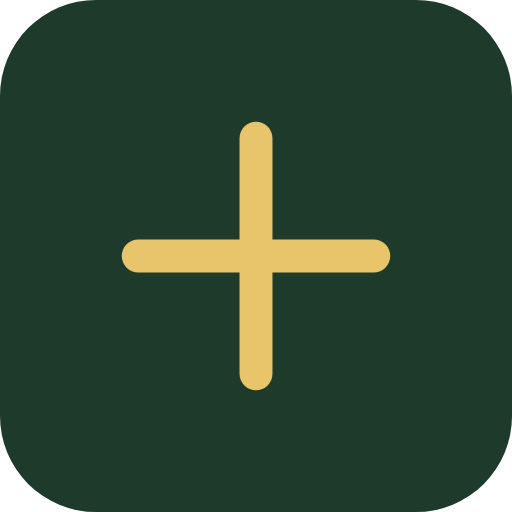
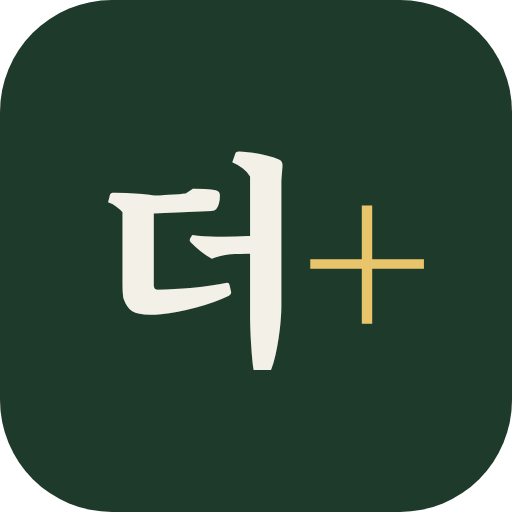
홈페이지 2차 개편 1단계: 글자 로고 A·아이콘·공유 그림·사진
- 로고 「하나 더+ │ 세무회계」(Logo.astro, 명조 900 로고 글자만 잘라 1KB)
- 앱 아이콘·탭 그림 "더+", 카카오톡 공유 그림 새로(scripts/make-brand-images.mjs)
- 분위기 사진 5장(Pexels)·운영자 서점 사진 5장(우리 책만 선명) — docs/photo-sources.md

Claude-Session: https://claude.ai/code/session_01AABDgFkEFoZPQB6r4Tz1H1

diff --git a/src/styles/global.css b/src/styles/global.css
@@ -32,8 +32,10 @@
 /* 제목 글꼴: 빌드 뒤 scripts/subset-fonts.mjs가 쓰인 글자만 잘라 만든다 */
 @font-face { font-family: "Hanadeo Serif"; font-weight: 700; font-display: swap; src: url("/fonts/serif-la-700.woff2") format("woff2"); unicode-range: U+0000-024F, U+2000-206F, U+20AC, U+2190-21FF; }
 @font-face { font-family: "Hanadeo Serif"; font-weight: 700; font-display: swap; src: url("/fonts/serif-ko-700.woff2") format("woff2"); unicode-range: U+1100-11FF, U+3000-303F, U+3130-318F, U+AC00-D7AF, U+FF00-FFEF; }
-/* 남은 날 큰 숫자: 명조 숫자 열 개만(약 3KB) */
-@font-face { font-family: "Hanadeo Num"; font-weight: 400; font-display: swap; src: url("/fonts/serif-num-400.woff2") format("woff2"); unicode-range: U+0030-0039; }
+/* 남은 날 큰 숫자·로고의 가는 +: 명조 400 숫자 열 개와 + (약 3KB) */
+@font-face { font-family: "Hanadeo Num"; font-weight: 400; font-display: swap; src: url("/fonts/serif-num-400.woff2") format("woff2"); unicode-range: U+002B, U+0030-0039; }
+/* 글자 로고 "하나 더": 명조 900에서 로고 글자만 */
+@font-face { font-family: "Hanadeo Logo"; font-weight: 900; font-display: swap; src: url("/fonts/serif-logo-900.woff2") format("woff2"); unicode-range: U+AC00-D7AF; }
 
 *, *::before, *::after { box-sizing: border-box; }
 html { -webkit-text-size-adjust: 100%; }

diff --git a/CLAUDE.md b/CLAUDE.md
@@ -29,6 +29,8 @@
 - 종이색은 풀빛 도는 회색(#F2F3EE), + 기호는 로고·첫 화면 제목 끝 하나·마감 표시·서비스 목록 표시·옅은 모눈(`.plusgrid`)에만 — 장식으로 늘리지 말 것(2026-10-24 시안 1판에서 십자수처럼 보인다는 지적).
 - 책 목록 `home.json` books는 최신순 — 홈은 앞에서 `homeBooks`(4)권만, 칼럼·책 페이지는 전부. 표지 사진은 `cover`(public/img/books/, PowerPoint에서 PNG로 내보낸 것 → webp 400px), 없으면 표지색(`color`)으로 그린 표지. 표지 PPTX를 이 환경에서 그림으로 바꾸면 글꼴이 없어 깨지니 쓰지 말 것.
 - 칼럼·책 카드 표지는 `src/components/Thumb.astro` — 블로그 글은 제목 낱말로 주제(`src/lib/thumbTopic.js`)를 골라 색·그림을 바꾸고, RSS에 네이버 사진(pstatic.net)이 있으면 사진을 쓴다(못 불러오면 그림).
-- 아이콘 PNG·`manifest.webmanifest`는 favicon.svg와 같은 그림(숲색 바탕 + 금색 십자) — `tests/icons.test.mjs`가 픽셀을 본다(예전 PNG에 깨진 그림 표시가 찍혀 바로가기 아이콘이 하얬다).
+- 로고는 글자 로고 A「하나 더+ │ 세무회계」(2026-10-24 운영자 선택) — `src/components/Logo.astro` 한 곳(머리글·메뉴·바닥글은 `dark`). "하나 더"는 명조 900을 그 세 글자만 잘라(`serif-logo-900`), +는 가는 금색(`Hanadeo Num` 400).
+  아이콘 PNG 5개·`og.png`는 같은 로고의 "더+"(숲색 바탕·크림색 더·금색 +) — `scripts/make-brand-images.mjs`로만 다시 만든다(손으로 고치지 말 것). `tests/icons.test.mjs`가 픽셀을 본다(예전 PNG에 깨진 그림 표시가 찍혀 바로가기 아이콘이 하얬다).
+- 사진은 `public/img/photos/`, 출처는 `docs/photo-sources.md` — 분위기 사진(mood-*)은 사람·장소·다른 저자 책 제목이 없는 것만 장식으로, 운영자 사진(own-*)은 우리 책만 선명하게 두고 다른 책은 흐리게.
 - 칼럼·책의 블로그 최신 글은 빌드 때 RSS를 읽고(`src/lib/blogFeed.js`), 못 읽으면 그 칸만 뺀다 — 빌드를 실패시키지 말 것.
 - 영상(`src/data/videos.json`)은 누를 때만 받는다(preload=none, 자동 재생 금지). 영상 속 "22권"은 통합검색 22가 검색하는 책 — 옆에 "저서 33권 중 22권" 설명을 빼지 말 것.

diff --git a/docs/photo-sources.md b/docs/photo-sources.md
@@ -1,0 +1,22 @@
+# 사진 출처 (public/img/photos/)
+
+장식용 분위기 사진(mood-*)은 사람·장소가 없고 다른 저자의 책 제목이 읽히지 않는 것만 — Pexels License(무료·출처 표시 의무 없음, https://www.pexels.com/license/). 2026-10-24 내려받음.
+
+| 파일 | 내용 | 원본 |
+|---|---|---|
+| mood-pen-{1200,800}.webp | 흰 종이 위 만년필 | https://www.pexels.com/photo/7431849/ |
+| mood-pages-{1200,800}.webp | 쌓인 종이 가장자리 | https://www.pexels.com/photo/7233375/ |
+| mood-book-{1200,800}.webp | 펼친 책 | https://www.pexels.com/photo/415071/ |
+| mood-paper-{1200,800}.webp | 종이 질감 | https://www.pexels.com/photo/20899958/ |
+| mood-leaves-{1200,800}.webp | 책장 넘김 가까이 | https://www.pexels.com/photo/29391654/ |
+
+운영자 사진(own-*) — 운영자가 2026-10-24 보낸 서점·책장 사진. 대표 저서 「병·의원 세무 관리」(성광호·조성식, 삼일인포마인)만 선명하게 두고
+다른 저자의 책은 흐리게 처리했다(제목이 읽히지 않게 — 다른 책을 우리 책처럼 보이게 하지 않으려고). 원본은 저장소에 넣지 않는다.
+
+| 파일 | 내용 |
+|---|---|
+| own-store-{1600,800}.webp | 서점 C27-5·C27-6 서가 매대(같은 책 두 곳) |
+| own-face-{900,600}.webp | C27-6 세금일반 서가 매대 정면 |
+| own-shelf-{900,600}.webp | 책장 속 책등 |
+| own-angle-{900,600}.webp | 조명 아래 선반에 세운 책(비스듬히) |
+| own-e27-{900,600}.webp | 서점 E27-3 세금/경리 서가 속 책등 |
